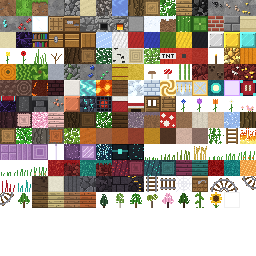
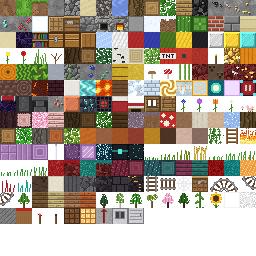
VoxelMundo 2.98: redstone básica (fio, alavanca, botões, placas, tocha, lâmpada, repetidor), porta de ferro
Claude-Session: https://claude.ai/code/session_01SKzGsMSN5sGbjpC94Uaicj

Changed region(s): [[0.0, 0.8125, 0.5625, 0.875], [0.9375, 0.75, 1.0, 0.8125]]

diff --git a/VoxelMundo/app/src/main/assets/js/jogo.js b/VoxelMundo/app/src/main/assets/js/jogo.js
@@ -1850,6 +1850,77 @@ window.STATE_ITEM = window.STATE_ITEM || {};
   window.GLASS_ITEM = { 244: GLASS_COLORS.map(c => IID[c[0] + '_stained_glass']), 245: GLASS_COLORS.map(c => IID[c[0] + '_stained_glass_pane']) };
 })();
 
+// ================= REDSTONE: blocos, desenhos, itens e receitas (a simulação fica em 09zzzz_redstone.js) =================
+// Estados guardados no bloco (como a cor do vidro):
+//   fio: força 0..15 · alavanca/botão: lado preso (1..6) + 8 se ligado · placa: 1 = pisada · repetidor: 1 + direção + 4*(atraso-1) + 16 se ligado
+(function () {
+  const T0 = [0, 0, 0, 0];
+  retile('redstone_dust', (px, r) => { for (let y = 0; y < 16; y++) for (let x = 0; x < 16; x++) { const d = Math.hypot(x - 7.5, y - 7.5); px(x, y, d < 2.6 || (r() < 0.22 && d < 7.5) ? [235, 235, 235, 255] : [210, 210, 210, r() < 0.5 ? 255 : 0]); } });
+  retile('lever_base', (px, r) => { for (let y = 0; y < 16; y++) for (let x = 0; x < 16; x++) { const v = 112 + r() * 26 | 0; px(x, y, (x + y) % 5 === 0 ? [v - 30, v - 30, v - 30] : [v, v, v]); } });
+  retile('lever_stick', (px, r) => { for (let y = 0; y < 16; y++) for (let x = 0; x < 16; x++) px(x, y, y < 3 ? [180, 40, 30] : [140 + (x % 2) * 18, 104, 60]); });
+  retile('redstone_torch', (px, r) => { for (let y = 0; y < 16; y++) for (let x = 0; x < 16; x++) px(x, y, T0); for (let y = 8; y < 16; y++) { px(7, y, [120, 90, 50]); px(8, y, [95, 70, 40]); } for (const [x, y, c] of [[7, 6, [255, 120, 90]], [8, 6, [240, 60, 40]], [7, 7, [230, 40, 30]], [8, 7, [200, 30, 20]], [6, 6, [150, 20, 15]], [9, 7, [150, 20, 15]], [7, 5, [255, 170, 150]]]) px(x, y, c); });
+  retile('redstone_torch_off', (px, r) => { for (let y = 0; y < 16; y++) for (let x = 0; x < 16; x++) px(x, y, T0); for (let y = 8; y < 16; y++) { px(7, y, [120, 90, 50]); px(8, y, [95, 70, 40]); } for (const [x, y, c] of [[7, 6, [110, 40, 34]], [8, 6, [90, 30, 26]], [7, 7, [80, 26, 22]], [8, 7, [70, 22, 18]]]) px(x, y, c); });
+  const lamp = on => (px, r) => { for (let y = 0; y < 16; y++) for (let x = 0; x < 16; x++) { const edge = x === 0 || y === 0 || x === 15 || y === 15, grid = x % 5 === 0 || y % 5 === 0; const c = on ? (grid ? [176, 110, 50] : r() < 0.3 ? [255, 236, 170] : [248, 200, 110]) : (grid ? [70, 44, 26] : r() < 0.3 ? [150, 100, 60] : [118, 76, 44]); px(x, y, edge ? (on ? [150, 96, 46] : [60, 38, 22]) : c); } };
+  retile('redstone_lamp', lamp(false)); retile('redstone_lamp_on', lamp(true));
+  retile('repeater_top', (px, r) => { for (let y = 0; y < 16; y++) for (let x = 0; x < 16; x++) { const v = 150 + r() * 20 | 0; px(x, y, [v, v, v]); } for (let y = 1; y < 15; y++) { px(7, y, [120, 30, 26]); px(8, y, [150, 36, 30]); } for (const x of [5, 6, 7, 8, 9, 10]) px(x, 3, [150, 36, 30]); px(6, 2, [150, 36, 30]); px(9, 2, [150, 36, 30]); });
+  const iron = top => (px, r) => { for (let y = 0; y < 16; y++) for (let x = 0; x < 16; x++) { const v = 196 + r() * 22 | 0; px(x, y, (x === 0 || x === 15 || (top ? y === 0 : y === 15)) ? [120, 120, 124] : [v, v, v + 4]); }
+    if (top) { for (let y = 3; y < 11; y++) for (let x = 3; x < 13; x++) px(x, y, (x === 3 || x === 12 || y === 3 || y === 10 || x === 7 || x === 8) ? [130, 130, 134] : [60, 64, 70, 255]); } else { for (let y = 2; y < 14; y += 3) for (let x = 2; x < 14; x++) px(x, y, [150, 150, 154]); px(12, 6, [90, 90, 94]); px(12, 7, [90, 90, 94]); } };
+  retile('iron_door_top', iron(true)); retile('iron_door_bottom', iron(false));
+  const add = (id, key, name, o) => { const b = defBlock(id, key, name, o); if (o.opaque === false) OPAQ[id] = 0; if (o.solid === false) SOLID[id] = 0; if (o.light) LIGHT_BLOCKS.add(id); return b; };
+  const EN0 = typeof EN !== 'undefined' ? EN : null, en = (k, v) => { if (EN0) EN0[k] = v; };
+  add(247, 'redstone_wire', 'Pó de Redstone', { solid: false, opaque: false, shape: 'box', boxes: 'rs_wire', hard: 0, t: 'redstone_dust', drop: 'redstone', creative: false, snd: 'stone' });
+  add(248, 'lever', 'Alavanca', { solid: false, opaque: false, shape: 'box', boxes: 'lever', hard: 0.5, t: 'lever_base', snd: 'stone' }); en('lever', 'Lever');
+  add(249, 'stone_button', 'Botão de Pedra', { solid: false, opaque: false, shape: 'box', boxes: 'button', hard: 0.5, t: 'stone', snd: 'stone' }); en('stone_button', 'Stone Button');
+  add(250, 'wood_button', 'Botão de Madeira', { solid: false, opaque: false, shape: 'box', boxes: 'button', hard: 0.5, t: 'planks', snd: 'wood' }); en('wood_button', 'Wooden Button');
+  add(251, 'stone_plate', 'Placa de Pressão de Pedra', { solid: false, opaque: false, shape: 'box', boxes: 'plate', hard: 0.5, t: 'stone', snd: 'stone' }); en('stone_plate', 'Stone Pressure Plate');
+  add(252, 'wood_plate', 'Placa de Pressão de Madeira', { solid: false, opaque: false, shape: 'box', boxes: 'plate', hard: 0.5, t: 'planks', snd: 'wood' }); en('wood_plate', 'Wooden Pressure Plate');
+  add(253, 'repeater', 'Repetidor de Redstone', { opaque: false, shape: 'box', boxes: 'repeater', hard: 0, t: { top: 'repeater_top', side: 'stone', bottom: 'stone' }, snd: 'stone' }); en('repeater', 'Redstone Repeater');
+  add(254, 'redstone_lamp', 'Lâmpada de Redstone', { hard: 0.3, t: 'redstone_lamp', snd: 'glass' }); en('redstone_lamp', 'Redstone Lamp');
+  add(255, 'redstone_lamp_on', 'Lâmpada de Redstone', { hard: 0.3, t: 'redstone_lamp_on', snd: 'glass', light: 15, drop: 'redstone_lamp', creative: false });
+  add(143, 'redstone_torch', 'Tocha de Redstone', { solid: false, opaque: false, torch: true, hard: 0, light: 7, t: 'redstone_torch', snd: 'wood' }); en('redstone_torch', 'Redstone Torch');
+  add(144, 'redstone_torch_off', 'Tocha de Redstone', { solid: false, opaque: false, torch: true, hard: 0, t: 'redstone_torch_off', snd: 'wood', drop: 'redstone_torch', creative: false });
+  add(141, 'iron_door', 'Porta de Ferro', { t: 'iron_door_bottom', opaque: false, shape: 'door', hard: 5, tool: 'pickaxe', tier: 0, snd: 'stone' }); en('iron_door', 'Iron Door');
+  add(142, 'iron_door_open', 'Porta de Ferro', { t: 'iron_door_bottom', opaque: false, solid: false, shape: 'door', hard: 5, tool: 'pickaxe', tier: 0, snd: 'stone', creative: false, drop: 141 });
+  BL[141].flat = BL[142].flat = true;
+  for (const k of ['lever', 'stone_button', 'wood_button', 'stone_plate', 'wood_plate', 'repeater', 'redstone_lamp', 'redstone_torch', 'iron_door']) defItem(BID[k], k, BL[BID[k]].name, { block: BID[k], cat: 'blocks' });
+  // o pó de redstone vira fio quando colocado
+  if (IID.redstone !== undefined) IT[IID.redstone].block = 247;
+  // receitas (como no jogo original)
+  shaped(['S', 'C'], { S: 'stick', C: 'cobble' }, 'lever');
+  shapeless(['stone'], 'stone_button'); shapeless(['planks'], 'wood_button');
+  shaped(['SS'], { S: 'stone' }, 'stone_plate'); shaped(['PP'], { P: 'planks' }, 'wood_plate');
+  shaped(['R', 'S'], { R: 'redstone', S: 'stick' }, 'redstone_torch');
+  shaped([' R ', 'RGR', ' R '], { R: 'redstone', G: 'glowstone' }, 'redstone_lamp');
+  shaped(['TRT', 'SSS'], { T: 'redstone_torch', R: 'redstone', S: 'stone' }, 'repeater');
+  shaped(['II', 'II', 'II'], { I: 'iron_ingot' }, 'iron_door', 3);
+  // ---------- formas ----------
+  // lado preso: 0 +x, 1 -x, 2 +y (em cima de bloco = chão), 3 -y (teto), 4 +z, 5 -z  (o bloco de apoio fica no lado contrário)
+  const FD = [[1, 0, 0], [-1, 0, 0], [0, 1, 0], [0, -1, 0], [0, 0, 1], [0, 0, -1]];
+  window.RS_FD = FD;
+  // caixa (em 16 avos) colada na face de apoio: largura w, altura h (para fora da face), comprimento l
+  function onFace(face, w, l, h) { const a = (16 - w) / 32, b = (16 - l) / 32, H = h / 16;
+    switch (face) { case 2: return [a, 0, b, 1 - a, H, 1 - b]; case 3: return [a, 1 - H, b, 1 - a, 1, 1 - b]; case 0: return [0, b, a, H, 1 - b, 1 - a]; case 1: return [1 - H, b, a, 1, 1 - b, 1 - a]; case 4: return [a, b, 0, 1 - a, 1 - b, H]; default: return [a, b, 1 - H, 1 - a, 1 - b, 1]; } }
+  window.rsState = (w, X, Y, Z) => (w && w.getAxis ? w.getAxis(X, Y, Z) : 0) || 0;
+  const bb = blockBoxes; blockBoxes = function (id, X, Y, Z, phys, world) {
+    const b = BL[id]; if (!b || !b.boxes) return bb.apply(this, arguments); const w = world || G.world, st = rsState(w, X, Y, Z);
+    switch (b.boxes) {
+      case 'rs_wire': { const out = [[5 / 16, 0, 5 / 16, 11 / 16, 1 / 16, 11 / 16]], c = rsWireConn(w, X, Y, Z); if (c[0]) out.push([11 / 16, 0, 5.5 / 16, 1, 1 / 16, 10.5 / 16]); if (c[1]) out.push([0, 0, 5.5 / 16, 5 / 16, 1 / 16, 10.5 / 16]); if (c[2]) out.push([5.5 / 16, 0, 11 / 16, 10.5 / 16, 1 / 16, 1]); if (c[3]) out.push([5.5 / 16, 0, 0, 10.5 / 16, 1 / 16, 5 / 16]); return out; }
+      case 'lever': { const face = st ? ((st - 1) & 7) : 2; return [onFace(face, 6, 8, 3)]; }
+      case 'button': { const face = st ? ((st - 1) & 7) : 2, on = st >= 9; return [onFace(face, 6, 4, on ? 1 : 2)]; }
+      case 'plate': return [[1 / 16, 0, 1 / 16, 15 / 16, (st ? 0.5 : 1) / 16, 15 / 16]];
+      case 'repeater': return [[0, 0, 0, 1, 2 / 16, 1]];
+    }
+    return bb.apply(this, arguments); };
+  // ligações do fio: fio, componentes, e fio um degrau acima/abaixo
+  const CONN = new Set();
+  window.rsWireConn = function (w, X, Y, Z) { if (!CONN.size) for (const k of ['redstone_wire', 'lever', 'stone_button', 'wood_button', 'stone_plate', 'wood_plate', 'redstone_torch', 'redstone_torch_off', 'redstone_lamp', 'redstone_lamp_on', 'repeater']) CONN.add(BID[k]);
+    const r = [0, 0, 0, 0]; if (!w || !w.getBlock) return r; const D = [[1, 0], [-1, 0], [0, 1], [0, -1]];
+    for (let i = 0; i < 4; i++) { const x = X + D[i][0], z = Z + D[i][1], n = w.getBlock(x, Y, z); if (CONN.has(n)) { if (n === BID.repeater) { const s = rsState(w, x, Y, z), d = s ? ((s - 1) & 3) : 0; if (d === 1 || d === 3 ? D[i][0] === 0 : D[i][1] === 0) continue; } r[i] = 1; continue; }
+      if (w.getBlock(x, Y - 1, z) === 247 && !OPAQ[n]) { r[i] = 1; continue; } if (w.getBlock(x, Y + 1, z) === 247 && !OPAQ[w.getBlock(X, Y + 1, Z)]) { r[i] = 1; continue; } }
+    if (!r[0] && !r[1] && (r[2] || r[3])) { r[2] = r[3] = 1; } else if (!r[2] && !r[3] && (r[0] || r[1])) { r[0] = r[1] = 1; }
+    return r; };
+})();
+
 // ================= MUNDO =================
 const CS = 16, WH = 160, NH = 96, SEA = 40;
 const ckey = (cx, cz) => cx + ',' + cz;
@@ -2184,7 +2255,7 @@ class World {
       const T = 3 / 16; return side === 0 ? [1 - T, 0, 0, 1, 1, 1] : side === 1 ? [0, 0, 0, T, 1, 1] : side === 2 ? [0, 0, 1 - T, 1, 1, 1] : [0, 0, 0, 1, 1, T]; }
     if (b.torch) { const tw = wallTorch(this, x, y, z); if (tw) { const cx = 0.5 + tw[0] * 0.3, cz = 0.5 + tw[1] * 0.3; return [cx - 0.15, 0.2, cz - 0.15, cx + 0.15, 0.82, cz + 0.15]; } return [0.4, 0, 0.4, 0.6, 0.62, 0.6]; }
     if (b.cross) return id === BID.fire ? [0, 0, 0, 1, 0.06, 1] : [0.18, 0, 0.18, 0.82, id === BID.sugarcane ? 1 : 0.8, 0.82];
-    if (b.shape === 'door') { const bd = this.bdata && this.bdata[x + ',' + y + ',' + z]; const f0 = bd && bd.f !== undefined ? bd.f : 5, side = id === BID.door_open ? ({ 2: 5, 3: 5, 4: 3, 5: 3 })[f0] : f0, T3 = 3 / 16; return side === 2 ? [1 - T3, 0, 0, 1, 1, 1] : side === 3 ? [0, 0, 0, T3, 1, 1] : side === 4 ? [0, 0, 1 - T3, 1, 1, 1] : [0, 0, 0, 1, 1, T3]; }
+    if (b.shape === 'door') { const bd = this.bdata && this.bdata[x + ',' + y + ',' + z]; const f0 = bd && bd.f !== undefined ? bd.f : 5, side = (id === BID.door_open || id === BID.iron_door_open) ? ({ 2: 5, 3: 5, 4: 3, 5: 3 })[f0] : f0, T3 = 3 / 16; return side === 2 ? [1 - T3, 0, 0, 1, 1, 1] : side === 3 ? [0, 0, 0, T3, 1, 1] : side === 4 ? [0, 0, 1 - T3, 1, 1, 1] : [0, 0, 0, 1, 1, T3]; }
     if (b.boxes) { const bx = blockBoxes(id, x, y, z, false, this); if (!bx.length) return [0, 0, 0, 1, 1, 1]; const u = [1, 1, 1, 0, 0, 0]; for (const q of bx) for (let a = 0; a < 3; a++) { u[a] = Math.min(u[a], q[a]); u[a + 3] = Math.max(u[a + 3], q[a + 3]); } return u; }
     if (BH[id] < 1) return [0, 0, 0, 1, BH[id], 1];
     return null;
@@ -2215,7 +2286,7 @@ class World {
 function liqH(id, above) { if (LIQT[above] === LIQT[id]) return 1; const l = LVL[id]; if (l === 0 || l === 8) return 0.875; return Math.max(0.12, (8 - l) / 9); }
 // troncos deitados: o mesmo bloco, só guarda o eixo (1 = ao longo de X, 2 = ao longo de Z). Nas mudanças salvas fica id + 256*eixo.
 const AXIAL = new Uint8Array(256), LOGAX = new Uint8Array(256); for (const b of BL) if (b && /^(log|.+_log|crimson_stem|warped_stem|hay|basalt|void_pillar)$/.test(b.key)) AXIAL[b.id] = LOGAX[b.id] = 1;
-for (const k of ['stained_glass', 'stained_glass_pane', 'wool_dyed', 'bed', 'bed_foot']) if (BID[k] !== undefined) AXIAL[BID[k]] = 1; // estado = cor (1..16)
+for (const k of ['stained_glass', 'stained_glass_pane', 'wool_dyed', 'bed', 'bed_foot', 'redstone_wire', 'lever', 'stone_button', 'wood_button', 'stone_plate', 'wood_plate', 'repeater']) if (BID[k] !== undefined) AXIAL[BID[k]] = 1; // estado = cor (1..16)
 function applyMods(c, m) { const d = c.data; for (const i in m) { const v = m[i]; d[i] = v; if (c.ax) c.ax.delete(+i); if (v > 255) (c.ax || (c.ax = new Map())).set(+i, v >> 8); } }
 const FACES = [
   { d: [0, 1, 0], c: [[0, 1, 0], [0, 1, 1], [1, 1, 1], [1, 1, 0]], t: 'top', s: 1.0 },
@@ -2330,8 +2401,9 @@ function meshChunk(world, ch) {
     if (b.boxes) {
       const sky = skyL(x, y, z), bl = lights.length ? blkL(x, y, z) : 0;
       if (b.boxes === 'rail') { const rs = railShape(world, ch.cx * 16 + x, y, ch.cz * 16 + z, id); if (rs.asc) { emitRailSlope(S_, x, y, z, rs, Math.max(sky, skyL(x, y + 1, z)), Math.max(bl, lights.length ? blkL(x, y + 1, z) : 0)); continue; } }
-      const pst = b.boxes === 'pane' && AXIAL[id] && ch.ax ? (ch.ax.get((y * 16 + z) * 16 + x) || 0) : 0;
-      emitBoxes(b.translucent ? G_ : S_, blockBoxes(id, ch.cx * 16 + x, y, ch.cz * 16 + z, false, world), x, y, z, b.boxes === 'rail' ? railTex(world, ch.cx * 16 + x, y, ch.cz * 16 + z, id) : b.tex, sky, bl, f => { const F = FACES[f], n = get(x + F.d[0], y + F.d[1], z + F.d[2]); return OPAQ[n] && !BL[n].boxes; }, 1, false, pst && window.GLASS_TINT ? GLASS_TINT[pst - 1] : null);
+      const pst = AXIAL[id] && ch.ax ? (ch.ax.get((y * 16 + z) * 16 + x) || 0) : 0, BX = window.BOX_EXTRA && BOX_EXTRA[b.boxes];
+      if (BX && BX(S_, world, ch.cx * 16 + x, y, ch.cz * 16 + z, x, z, pst, sky, bl, id)) continue; // blocos de redstone com várias peças
+      emitBoxes(b.translucent ? G_ : S_, blockBoxes(id, ch.cx * 16 + x, y, ch.cz * 16 + z, false, world), x, y, z, b.boxes === 'rail' ? railTex(world, ch.cx * 16 + x, y, ch.cz * 16 + z, id) : b.tex, sky, bl, f => { const F = FACES[f], n = get(x + F.d[0], y + F.d[1], z + F.d[2]); return OPAQ[n] && !BL[n].boxes; }, 1, false, b.boxes === 'pane' && pst && window.GLASS_TINT ? GLASS_TINT[pst - 1] : null);
       continue;
     }
     if (b.shape === 'bed') {
@@ -2345,7 +2417,7 @@ function meshChunk(world, ch) {
     }
     if (b.shape) {
       let mn = [0, 0, 0], mx = [1, 1, 1], tx = b.tex;
-      { const bd = world.bdata[(ch.cx * 16 + x) + ',' + y + ',' + (ch.cz * 16 + z)]; const f0 = bd && bd.f !== undefined ? bd.f : 5, side = id === BID.door_open ? ({ 2: 5, 3: 5, 4: 3, 5: 3 })[f0] : f0, T3 = 3 / 16; if (side === 2) mn = [1 - T3, 0, 0]; else if (side === 3) mx = [T3, 1, 1]; else if (side === 4) mn = [0, 0, 1 - T3]; else mx = [1, 1, T3]; const t = BL[get(x, y - 1, z)].shape === 'door' ? T.door_top : T.door_bottom; tx = { top: t, bottom: t, side: t }; }
+      { const bd = world.bdata[(ch.cx * 16 + x) + ',' + y + ',' + (ch.cz * 16 + z)]; const f0 = bd && bd.f !== undefined ? bd.f : 5, side = (id === BID.door_open || id === BID.iron_door_open) ? ({ 2: 5, 3: 5, 4: 3, 5: 3 })[f0] : f0, T3 = 3 / 16; if (side === 2) mn = [1 - T3, 0, 0]; else if (side === 3) mx = [T3, 1, 1]; else if (side === 4) mn = [0, 0, 1 - T3]; else mx = [1, 1, T3]; const IR = id === BID.iron_door || id === BID.iron_door_open, t = BL[get(x, y - 1, z)].shape === 'door' ? (IR ? T.iron_door_top : T.door_top) : (IR ? T.iron_door_bottom : T.door_bottom); tx = { top: t, bottom: t, side: t }; }
       const sky = skyL(x, y, z), bl = lights.length ? blkL(x, y, z) : 0;
       for (let f = 0; f < 6; f++) { const F = FACES[f]; if (b.shape === 'bed' && f === 1 && OPAQ[get(x, y - 1, z)]) continue; const t = F.t === 'top' ? tx.top : F.t === 'bottom' ? tx.bottom : tx.side; for (let k = 0; k < 4; k++) { const c = F.c[k]; verts[k] = [x + mn[0] + c[0] * (mx[0] - mn[0]), y + mn[1] + c[1] * (mx[1] - mn[1]), z + mn[2] + c[2] * (mx[2] - mn[2])]; uvs[k] = tileUV(t, FUV[k][0], f > 1 ? mn[1] + c[1] * (mx[1] - mn[1]) : FUV[k][1]); cols[k] = F.s; } pushQuad(S_, verts, uvs, cols, sky, bl, false); }
       continue;
@@ -8087,7 +8159,8 @@ MOB_CLASS.villager = function (x, y, z) { return new Villager(x, y, z, Math.floo
       'dandelion', 'poppy', 'cornflower', 'allium', 'orange_tulip', 'oxeye_daisy', 'tallgrass', 'deadbush', 'vine', 'cactus', 'sugarcane', 'pumpkin', 'melon', 'brown_mushroom', 'red_mushroom', 'brown_mushroom_block', 'red_mushroom_block', 'mushroom_stem', 'cobweb', 'coral_plant', 'coral_flower',
       'netherrack', 'nether_quartz_ore', 'nether_gold_ore', 'ancient_debris', 'soul_sand', 'soul_soil', 'magma', 'glowstone', 'crimson_nylium', 'warped_nylium', 'nether_wart_block', 'warped_wart_block', 'shroomlight', 'crimson_roots', 'warped_roots', 'end_stone', 'dragon_egg'],
     functional: ['crafting_table', 'furnace', 'chest', 'void_chest', 'bookshelf', 'enchanting_table', 'anvil', 'bed', 'door', 'ladder', 'torch', 'spawner', 'end_frame', 'rune_stone', 'void_rod', 'ominous_banner'],
-    transport: ['rail', 'minecart', 'chest_minecart', 'boat', 'saddle', 'tnt', 'redstone', 'rocket', 'void_wings'],
+    redstone: ['redstone', 'redstone_torch', 'repeater', 'lever', 'stone_button', 'wood_button', 'stone_plate', 'wood_plate', 'redstone_lamp', 'iron_door', 'door', 'tnt', 'redstone_ore'],
+    transport: ['rail', 'minecart', 'chest_minecart', 'boat', 'saddle', 'rocket', 'void_wings'],
     tools: [...TIERS.flatMap(t => ['pickaxe', 'axe', 'shovel', 'hoe'].map(x => t + '_' + x)), 'flint_steel', 'fishing_rod', 'bucket', 'water_bucket', 'lava_bucket', 'bone_meal'],
     combat: [...TIERS.flatMap(t => [t + '_sword', t + '_spear']), 'mace', 'bow', 'arrow', 'shield', 'totem', 'wind_charge',
       ...['leather', 'copper', 'gold', 'iron', 'diamond', 'netherite'].flatMap(t => ['helmet', 'chest', 'legs', 'boots'].map(x => t + '_' + x))],
@@ -8107,7 +8180,7 @@ MOB_CLASS.villager = function (x, y, z) { return new Villager(x, y, z, Math.floo
     return 'materials';
   }
   const TABS = {
-    left: [['inv', 'Inventário', 'Inventory', 'chest'], ['building', 'Construção', 'Building Blocks', 'bricks'], ['colored', 'Coloridos', 'Colored Blocks', 'wool_red'], ['natural', 'Natureza', 'Natural Blocks', 'grass'], ['functional', 'Utilidades', 'Functional Blocks', 'crafting_table'], ['transport', 'Transporte', 'Transport', 'minecart'], ['search', 'Pesquisar', 'Search', null]],
+    left: [['inv', 'Inventário', 'Inventory', 'chest'], ['building', 'Construção', 'Building Blocks', 'bricks'], ['colored', 'Coloridos', 'Colored Blocks', 'wool_red'], ['natural', 'Natureza', 'Natural Blocks', 'grass'], ['functional', 'Utilidades', 'Functional Blocks', 'crafting_table'], ['redstone', 'Redstone', 'Redstone', 'redstone'], ['transport', 'Transporte', 'Transport', 'minecart'], ['search', 'Pesquisar', 'Search', null]],
     right: [['tools', 'Ferramentas', 'Tools', 'iron_pickaxe'], ['combat', 'Combate', 'Combat', 'iron_sword'], ['food', 'Comida', 'Food', 'apple'], ['materials', 'Ingredientes', 'Ingredients', 'diamond'], ['potions', 'Poções', 'Potions', null], ['eggs', 'Ovos', 'Spawn Eggs', null], ['ench', 'Encantamentos', 'Enchantments', 'enchanted_book']]
   };
   const iconFor = (k, ic) => { if (ic && ICONS[K(ic)]) return ICONS[K(ic)]; if (k === 'potions') { const p = IT.find(i => i && i.cat === 'potions' && i.creative); return p && ICONS[p.id]; } if (k === 'eggs') { const p = IT.find(i => i && i.cat === 'eggs' && i.creative); return p && ICONS[p.id]; } return null; };
@@ -8750,6 +8823,126 @@ body.chopen #touchui,body.chopen #chatlog,body.chopen #itemname,body.chopen #hot
     const rev = this.sfxRev; this.master = lp; if (rev && pend.q) this.sfxRev = lp; // atrás da parede: sem eco "aberto"
     try { return pl(name, vol); } finally { this.master = real; this.sfxRev = rev; } };
   const mt = Snd.mat && Snd.mat.bind(Snd); if (mt) Snd.mat = function () { if (!pend || performance.now() - pendT > 4 || !this.ctx || !this.master) return mt.apply(this, arguments); const real = this.master, lp = this.ctx.createBiquadFilter(); lp.type = 'lowpass'; lp.frequency.value = pend.f; lp.connect(real); this.master = lp; try { return mt.apply(this, arguments); } finally { this.master = real; } };
+})();
+
+// ================= REDSTONE: simulação (10 vezes por segundo), desenho e uso =================
+// Fontes: alavanca, botão, placa de pressão, tocha de redstone, repetidor ligado.
+// Fio leva a força (15 e perde 1 por bloco). Bloco sólido encostado numa fonte fica "energizado" e liga o que estiver encostado nele.
+// Tocha apaga quando o bloco em que está presa recebe energia (inversor). Repetidor atrasa e renova o sinal (força 15).
+// Recebem energia: lâmpada, portas (madeira e ferro), TNT.
+(function () {
+  const W_ = 247, LEV = 248, SB = 249, WB = 250, SP = 251, WP = 252, REP = 253, LAMP = 254, LAMPON = 255, TOR = 143, TOROFF = 144, ID = 141, IDO = 142;
+  const RSIDS = new Set([W_, LEV, SB, WB, SP, WP, REP, LAMP, LAMPON, TOR, TOROFF, ID, IDO, BID.tnt, BID.door, BID.door_open]);
+  const FD = RS_FD, RD = [[0, -1], [1, 0], [0, 1], [-1, 0]], N6 = [[1, 0, 0], [-1, 0, 0], [0, 1, 0], [0, -1, 0], [0, 0, 1], [0, 0, -1]];
+  const K = (x, y, z) => x + ',' + y + ',' + z, P = k => k.split(',').map(Number);
+  const st = (w, x, y, z) => (w.getAxis ? w.getAxis(x, y, z) : 0) || 0;
+  const isSolid = id => !!(OPAQ[id] && SOLID[id] && !BL[id].boxes);
+  const set = w => w.rs || (w.rs = new Set());
+  // ---------- quem é componente (para não varrer o mundo todo) ----------
+  const bc = G.blockChanged; G.blockChanged = function (x, y, z, o, n) {
+    const r = bc.apply(this, arguments); const w = this.world; if (!w) return r;
+    if (RSIDS.has(n)) set(w).add(K(x, y, z)); w.rsDirty = true;
+    // posição inicial: alavanca/botão grudam no lado clicado; repetidor aponta para longe do jogador
+    if ((n === LEV || n === SB || n === WB) && o !== n && !st(w, x, y, z)) { const t = this.target; let f = 2; if (t && t.n) { const i = FD.findIndex(d => d[0] === t.n[0] && d[1] === t.n[1] && d[2] === t.n[2]); if (i >= 0) f = i; } w.setBlock(x, y, z, n, { ax: f + 1 }); }
+    if (n === REP && o !== REP && !st(w, x, y, z)) { const d = this.lookDir ? this.lookDir() : { x: 0, z: -1 }; const dir = Math.abs(d.x) > Math.abs(d.z) ? (d.x > 0 ? 1 : 3) : (d.z > 0 ? 2 : 0); w.setBlock(x, y, z, REP, { ax: 1 + dir }); }
+    // bloco de apoio sumiu: componentes presos nele caem
+    if (o && !n && isSolid(o)) for (let i = 0; i < 6; i++) { const X = x + FD[i][0], Y = y + FD[i][1], Z = z + FD[i][2], b = w.getBlock(X, Y, Z);
+      let falls = false; if (b === LEV || b === SB || b === WB) { const s = st(w, X, Y, Z), f = s ? (s - 1) & 7 : 2; falls = f === i; }
+      else if ((b === W_ || b === SP || b === WP || b === REP) && i === 2) falls = true;
+      else if (b === TOR || b === TOROFF) { const tw = wallTorch(w, X, Y, Z); falls = tw ? (X + tw[0] === x && Z + tw[1] === z && Y === y) : i === 2; }
+      if (falls) { w.setBlock(X, Y, Z, 0); if (this.player && this.player.mode !== 'creative' && !(window.NETX && NETX.isClient())) { const it = b === W_ ? IID.redstone : b === TOROFF ? IID.redstone_torch : b; dropItem(X + 0.5, Y + 0.3, Z + 0.5, it, 1); } } }
+    return r; };
+  // mundos salvos e estruturas geradas: acha os componentes
+  function scanWorld(w) { const S = set(w); for (const k in w.mods) { const m = w.mods[k], [cx, cz] = k.split(',').map(Number); for (const i in m) { const id = m[i] & 255; if (!RSIDS.has(id)) continue; const ii = +i, x = cx * 16 + (ii & 15), z = cz * 16 + ((ii >> 4) & 15), y = ii >> 8; S.add(K(x, y, z)); } } w.rsScanned = true; w.rsDirty = true; }
+  const gen = World.prototype.generate; World.prototype.generate = function (c) { const r = gen.apply(this, arguments); const d = c.data; for (let i = 0; i < d.length; i++) { const v = d[i]; if (v === SP || v === WP || v === LEV || v === TOR || v === W_ || v === SB || v === WB || v === REP) { set(this).add(K(c.cx * 16 + (i & 15), i >> 8, c.cz * 16 + ((i >> 4) & 15))); this.rsDirty = true; } } return r; };
+  // ---------- simulação ----------
+  let acc = 0; const btnT = new Map(), repQ = new Map(), torHist = new Map(), burnt = new Map(), doorMem = new Map();
+  function sim(w, dt) {
+    const S = set(w); if (!S.size) return; const now = performance.now() / 1000; let changed = false;
+    // botões soltam sozinhos
+    for (const [k, t] of btnT) { if (now >= t) { btnT.delete(k); const [x, y, z] = P(k), b = w.getBlock(x, y, z); if ((b === SB || b === WB) && st(w, x, y, z) >= 9) { w.setBlock(x, y, z, b, { ax: st(w, x, y, z) - 8 }); Snd.play('click', 0.4); } } }
+    // placas: alguém em cima?
+    const bodies = []; if (G.player && !G.player.dead) bodies.push([G.player.pos, 0.3, true]); if (window.NET && NET.peers) for (const pe of NET.peers) if (pe.proxy && !pe.proxy.dead && pe.proxy.dim === G.dim) bodies.push([pe.proxy.pos, 0.3, true]);
+    for (const e of G.entities) if (!e.dead && (e instanceof Mob || e instanceof ItemDrop)) bodies.push([e.pos, e.w || 0.25, e instanceof Mob]);
+    const comps = []; for (const k of S) { const [x, y, z] = P(k), id = w.getBlock(x, y, z); if (!RSIDS.has(id)) { if (w.chunks.has(ckey(x >> 4, z >> 4))) S.delete(k); continue; } comps.push([x, y, z, id, k]); }
+    for (const [x, y, z, id] of comps) if (id === SP || id === WP) { let on = 0; for (const [p, hw, mob] of bodies) { if (id === SP && !mob) continue; if (p.y >= y - 0.1 && p.y < y + 0.6 && p.x + hw > x + 1 / 16 && p.x - hw < x + 15 / 16 && p.z + hw > z + 1 / 16 && p.z - hw < z + 15 / 16) { on = 1; break; } }
+      if (on !== (st(w, x, y, z) ? 1 : 0)) { w.setBlock(x, y, z, id, { ax: on }); Snd.play('click', 0.3); } }
+    // fontes e blocos energizados
+    const src = new Map(), strong = new Set(), weak = new Set();
+    for (const [x, y, z, id, k] of comps) { const s = st(w, x, y, z);
+      if ((id === LEV || id === SB || id === WB) && s >= 9) { src.set(k, 15); const f = (s - 1) & 7, sx = x - FD[f][0], sy = y - FD[f][1], sz = z - FD[f][2]; if (isSolid(w.getBlock(sx, sy, sz))) strong.add(K(sx, sy, sz)); }
+      else if ((id === SP || id === WP) && s) { src.set(k, 15); if (isSolid(w.getBlock(x, y - 1, z))) strong.add(K(x, y - 1, z)); }
+      else if (id === TOR) { src.set(k, 15); if (isSolid(w.getBlock(x, y + 1, z))) strong.add(K(x, y + 1, z)); }
+      else if (id === REP && s >= 17) { const d = (s - 1) & 3, fx = x + RD[d][0], fz = z + RD[d][1]; if (isSolid(w.getBlock(fx, y, fz))) strong.add(K(fx, y, fz)); } }
+    // fio: força
+    const pw = new Map(), q = []; const wires = comps.filter(c => c[3] === W_);
+    const torchSupport = (x, y, z) => { const tw = wallTorch(w, x, y, z); return tw ? K(x + tw[0], y, z + tw[1]) : K(x, y - 1, z); };
+    for (const [x, y, z, , k] of wires) { let p = 0;
+      for (const d of N6) { const nk = K(x + d[0], y + d[1], z + d[2]); if (src.has(nk)) p = 15; else if (strong.has(nk)) p = 15; }
+      for (let i = 0; i < 4; i++) { const bx = x - RD[i][0], bz = z - RD[i][1], b = w.getBlock(bx, y, bz); if (b === REP) { const s = st(w, bx, y, bz); if (s >= 17 && ((s - 1) & 3) === i) p = 15; } }
+      if (p) { pw.set(k, p); q.push(k); } }
+    const wireAt = (x, y, z) => w.getBlock(x, y, z) === W_;
+    for (let h = 0; h < q.length; h++) { const k = q[h], [x, y, z] = P(k), p = pw.get(k) - 1; if (p <= 0) continue;
+      for (const [dx, dz] of RD) { const cand = []; if (wireAt(x + dx, y, z + dz)) cand.push([x + dx, y, z + dz]); else { if (!OPAQ[w.getBlock(x, y + 1, z)] && wireAt(x + dx, y + 1, z + dz)) cand.push([x + dx, y + 1, z + dz]); if (!OPAQ[w.getBlock(x + dx, y, z + dz)] && wireAt(x + dx, y - 1, z + dz)) cand.push([x + dx, y - 1, z + dz]); }
+        for (const c of cand) { const ck = K(...c); if ((pw.get(ck) || 0) < p) { pw.set(ck, p); q.push(ck); } } } }
+    // fio energizado energiza o bloco embaixo e o bloco para onde aponta
+    for (const [x, y, z, , k] of wires) { if (!pw.get(k)) continue; if (isSolid(w.getBlock(x, y - 1, z))) weak.add(K(x, y - 1, z)); const c = rsWireConn(w, x, y, z), none = !c[0] && !c[1] && !c[2] && !c[3];
+      for (let i = 0; i < 4; i++) if (c[i] || none) { const D = [[1, 0], [-1, 0], [0, 1], [0, -1]][i], bx = x + D[0], bz = z + D[1]; if (isSolid(w.getBlock(bx, y, bz))) weak.add(K(bx, y, bz)); } }
+    const poweredBlock = k => strong.has(k) || weak.has(k);
+    // alguma coisa liga este lugar?
+    const powered = (x, y, z, self) => { for (const d of N6) { const X = x + d[0], Y = y + d[1], Z = z + d[2], nk = K(X, Y, Z); if (nk === self) continue; if (src.has(nk)) { const b = w.getBlock(X, Y, Z); if ((b === TOR) && torchSupport(X, Y, Z) === K(x, y, z)) continue; return true; } if (poweredBlock(nk)) return true; if ((pw.get(nk) || 0) > 0 && (d[1] !== 0 || true)) return true; }
+      for (let i = 0; i < 4; i++) { const bx = x - RD[i][0], bz = z - RD[i][1]; if (w.getBlock(bx, y, bz) === REP) { const s = st(w, bx, y, bz); if (s >= 17 && ((s - 1) & 3) === i) return true; } } return false; };
+    // tochas (inversor), com proteção contra pisca-pisca muito rápido
+    for (const [x, y, z, id, k] of comps) if (id === TOR || id === TOROFF) { const sk = torchSupport(x, y, z); let want = poweredBlock(sk) ? TOROFF : TOR; if (!poweredBlock(sk)) { const [sx, sy, sz] = P(sk); if (src.has(sk)) want = TOROFF; }
+      if (burnt.has(k) && now < burnt.get(k)) want = TOROFF; if (want !== id) { const h = (torHist.get(k) || []).filter(t => now - t < 1.5); h.push(now); torHist.set(k, h); if (h.length > 10) { burnt.set(k, now + 3); want = TOROFF; Particles.spawn(x + 0.5, y + 0.7, z + 0.5, [0.4, 0.4, 0.4], 6, 0.6, 0.4, -1, 0.3); }
+        if (want !== id) { w.setBlock(x, y, z, want, { keepData: true }); changed = true; } } }
+    // repetidores: atraso de 1 a 4 "tiques" (0,1 s cada)
+    for (const [x, y, z, id, k] of comps) if (id === REP) { const s = st(w, x, y, z) || 1, d = (s - 1) & 3, dl = ((s - 1) >> 2 & 3) + 1, on = s >= 17, bx = x - RD[d][0], bz = z - RD[d][1], bk = K(bx, y, bz);
+      const inp = (pw.get(bk) || 0) > 0 || poweredBlock(bk) || src.has(bk) || (w.getBlock(bx, y, bz) === REP && st(w, bx, y, bz) >= 17 && ((st(w, bx, y, bz) - 1) & 3) === d);
+      const pend = repQ.get(k); if (inp !== on) { if (!pend || pend.v !== inp) repQ.set(k, { v: inp, t: now + dl * 0.1 }); } else if (pend) repQ.delete(k); }
+    for (const [k, p] of repQ) if (now >= p.t) { repQ.delete(k); const [x, y, z] = P(k); if (w.getBlock(x, y, z) !== REP) continue; const s = st(w, x, y, z) || 1, base = ((s - 1) & 15) + 1; w.setBlock(x, y, z, REP, { ax: base + (p.v ? 16 : 0) }); changed = true; }
+    // fio: grava a força nova (muda a cor)
+    for (const [x, y, z, , k] of wires) { const p = pw.get(k) || 0; if (st(w, x, y, z) !== p) w.setBlock(x, y, z, W_, { ax: p, noUpdate: true }); }
+    // quem recebe energia
+    for (const [x, y, z, id, k] of comps) {
+      if (id === LAMP || id === LAMPON) { const on = powered(x, y, z, k); if (on !== (id === LAMPON)) w.setBlock(x, y, z, on ? LAMPON : LAMP); }
+      else if (id === BID.tnt) { if (powered(x, y, z, k) && window.PrimedTNT) { w.setBlock(x, y, z, 0); G.entities.push(new PrimedTNT(x, y, z, 4)); } }
+      else if (id === BID.door || id === BID.door_open || id === ID || id === IDO) { const up = BL[w.getBlock(x, y - 1, z)].shape === 'door' ? y - 1 : y, bk = K(x, up, z); if (up !== y) continue;
+        const on = powered(x, y, z, k) || powered(x, y + 1, z, K(x, y + 1, z)); const was = doorMem.get(bk); if (was === on) continue; doorMem.set(bk, on); if (was === undefined && !on) continue;
+        const iron = id === ID || id === IDO, nid = on ? (iron ? IDO : BID.door_open) : (iron ? ID : BID.door), cur = w.getBlock(x, y, z); if (cur === nid) continue;
+        for (const dy of [0, 1]) if (BL[w.getBlock(x, y + dy, z)].shape === 'door') w.setBlock(x, y + dy, z, nid, { keepData: true, noUpdate: true }); Snd.play('door', 0.6); } }
+    if (changed) w.rsDirty = true;
+  }
+  const tk = G.tick; G.tick = function (dt) { const r = tk.apply(this, arguments);
+    try { const w = this.world; if (this.state === 'play' && w && !(window.NETX && NETX.isClient())) { if (!w.rsScanned) scanWorld(w); acc += dt; if (acc >= 0.1) { acc = 0; if ((w.rs && w.rs.size)) sim(w, 0.1); } } } catch (e) { console.error(e); }
+    return r; };
+  // ---------- usar: alavanca, botão, repetidor ----------
+  for (const id of [LEV, SB, WB, REP]) BL[id].interact = 'rs';
+  const ob = G.openBlock; G.openBlock = function (x, y, z, kind) {
+    if (kind !== 'rs') return ob.apply(this, arguments); const w = this.world, id = w.getBlock(x, y, z), s = st(w, x, y, z) || (id === REP ? 1 : 3); this.swing = 1;
+    if (id === LEV) { w.setBlock(x, y, z, LEV, { ax: s >= 9 ? s - 8 : s + 8 }); Snd.play('click', 0.6); }
+    else if (id === SB || id === WB) { if (s < 9) { w.setBlock(x, y, z, id, { ax: s + 8 }); Snd.play('click', 0.6); if (!(window.NETX && NETX.isClient())) btnT.set(K(x, y, z), performance.now() / 1000 + (id === WB ? 1.5 : 1.0)); } }
+    else if (id === REP) { const d = (s - 1) & 3, dl = ((s - 1) >> 2) & 3, on = s >= 17; w.setBlock(x, y, z, REP, { ax: 1 + d + 4 * ((dl + 1) & 3) + (on ? 16 : 0) }); Snd.play('click', 0.5); }
+    if (w.rs) w.rsDirty = true; };
+  // convidado aperta botão: quem solta é o dono
+  const bcH = G.blockChanged; G.blockChanged = function (x, y, z, o, n) { const r = bcH.apply(this, arguments); if ((n === SB || n === WB) && !(window.NETX && NETX.isClient())) { const w = this.world, s = st(w, x, y, z), k = K(x, y, z); if (s >= 9 && !btnT.has(k)) btnT.set(k, performance.now() / 1000 + (n === WB ? 1.5 : 1.0)); } return r; };
+  // ---------- desenho ----------
+  const RS_TINT = []; for (let p = 0; p <= 15; p++) RS_TINT[p] = [0.32 + 0.68 * p / 15, 0.03 + 0.12 * (p / 15) ** 2, 0.03];
+  const MAP = (f, a0, b0, h0, a1, b1, h1) => { const A = [a0 / 16, a1 / 16], B = [b0 / 16, b1 / 16], H = [h0 / 16, h1 / 16];
+    switch (f) { case 2: return [A[0], H[0], B[0], A[1], H[1], B[1]]; case 3: return [A[0], 1 - H[1], B[0], A[1], 1 - H[0], B[1]]; case 0: return [H[0], B[0], A[0], H[1], B[1], A[1]]; case 1: return [1 - H[1], B[0], A[0], 1 - H[0], B[1], A[1]]; case 4: return [A[0], B[0], H[0], A[1], B[1], H[1]]; default: return [A[0], B[0], 1 - H[1], A[1], B[1], 1 - H[0]]; } };
+  const tex1 = t => ({ top: t, side: t, bottom: t });
+  window.BOX_EXTRA = window.BOX_EXTRA || {};
+  BOX_EXTRA.rs_wire = (A, w, X, y, Z, x, z, s, sky, bl, id) => { emitBoxes(A, blockBoxes(id, X, y, Z, false, w), x, y, z, BL[id].tex, sky, Math.max(bl, s ? 0.4 * s / 15 : 0), null, 1, false, RS_TINT[s || 0]); return true; };
+  BOX_EXTRA.lever = (A, w, X, y, Z, x, z, s, sky, bl, id) => { const f = s ? (s - 1) & 7 : 2, on = s >= 9; emitBoxes(A, [MAP(f, 5, 4, 0, 11, 12, 3)], x, y, z, BL[id].tex, sky, bl, null);
+    emitBoxes(A, [on ? MAP(f, 7, 8.5, 3, 9, 10.5, 10) : MAP(f, 7, 5.5, 3, 9, 7.5, 10)], x, y, z, tex1(T.lever_stick), sky, bl, null); return true; };
+  BOX_EXTRA.repeater = (A, w, X, y, Z, x, z, s, sky, bl, id) => { s = s || 1; const d = (s - 1) & 3, dl = ((s - 1) >> 2 & 3) + 1, on = s >= 17;
+    emitBoxes(A, [[0, 0, 0, 1, 2 / 16, 1]], x, y, z, BL[id].tex, sky, bl, null);
+    // tochinhas: a da frente fixa, a de trás anda com o atraso
+    const along = (l0, l1) => { const a = 7 / 16, b = 9 / 16; switch (d) { case 0: return [a, 2 / 16, 1 - l1, b, 7 / 16, 1 - l0]; case 2: return [a, 2 / 16, l0, b, 7 / 16, l1]; case 1: return [l0, 2 / 16, a, l1, 7 / 16, b]; default: return [1 - l1, 2 / 16, a, 1 - l0, 7 / 16, b]; } };
+    const tint = on ? [1, 0.25, 0.18] : [0.42, 0.1, 0.08], back = 0.18 + (dl - 1) * 0.12;
+    emitBoxes(A, [along(0.72, 0.84), along(back, back + 0.12)], x, y, z, tex1(T.wool_white), sky, on ? Math.max(bl, 0.5) : bl, null, 1, false, tint); return true; };
+  // aparece na aba de redstone do criativo
+  try { if (window.CREATIVE_TABS) { } } catch (e) { }
 })();
 
 // ===== REGRAS GLOBAIS: quando uma tela está aberta (inventário, baú, chat, pausa, morte), nada acontece no mundo =====
